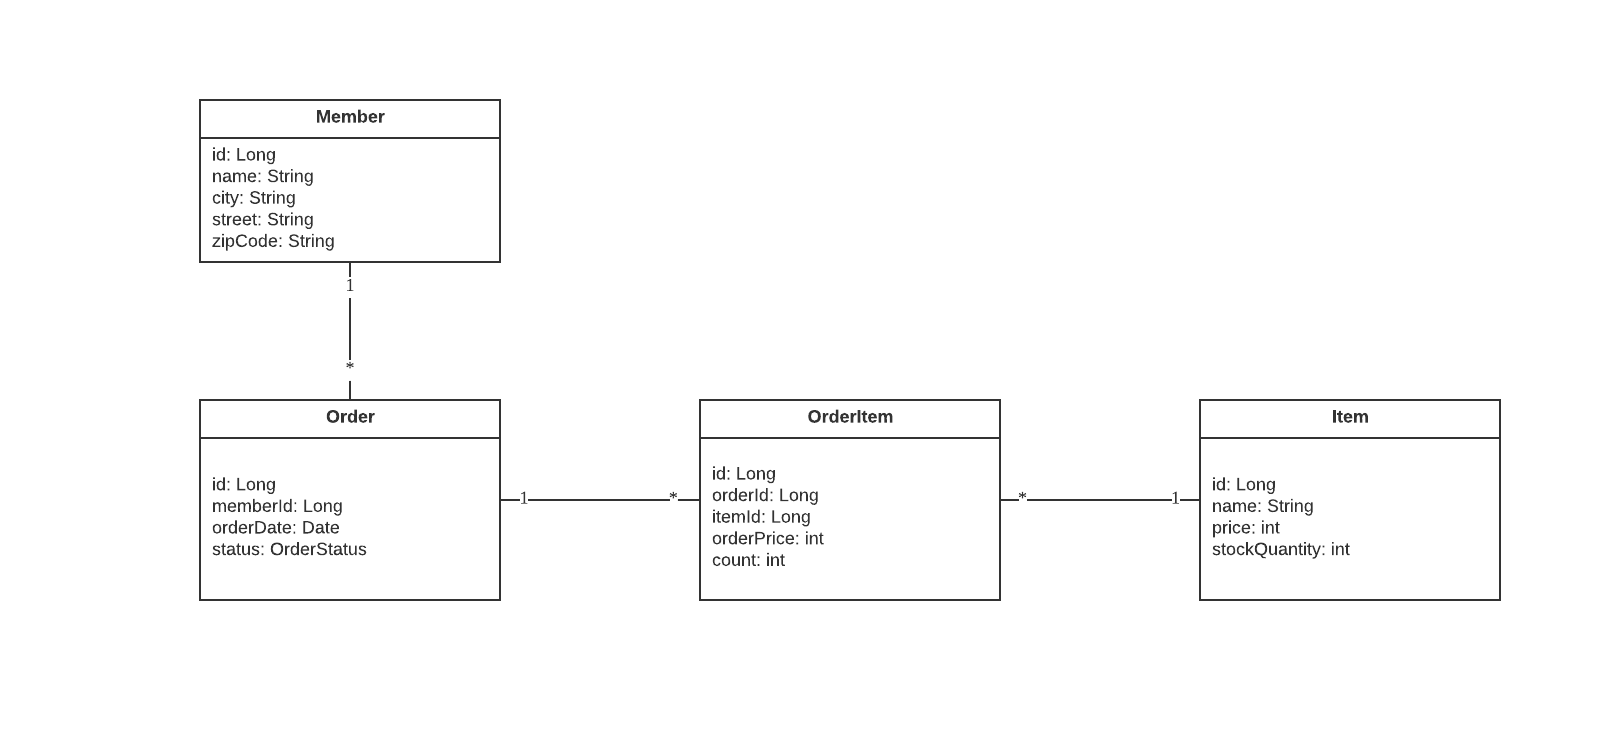
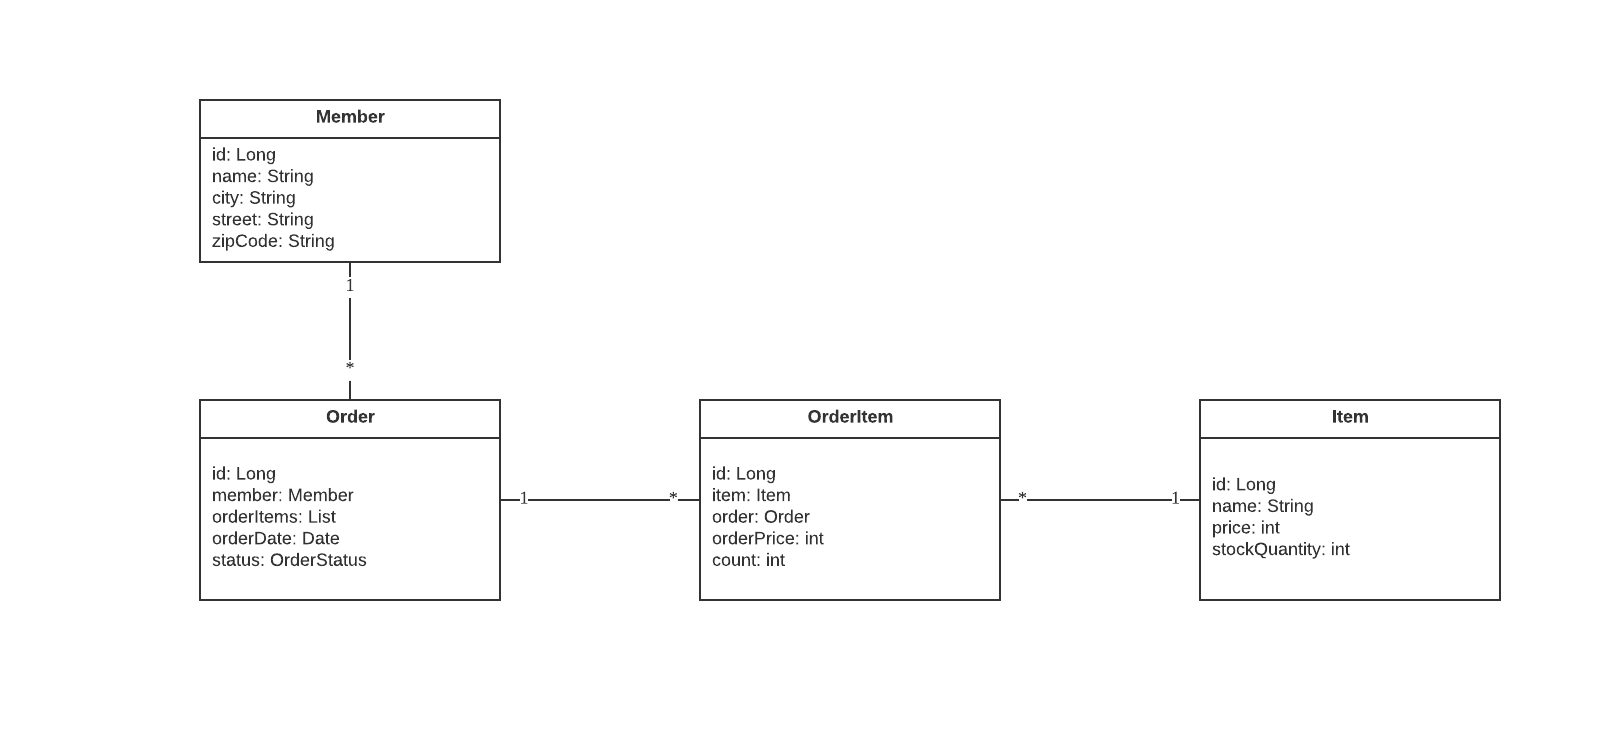
JPA 연관관계 매핑

Changed region(s): [[0.1239, 0.6166, 0.2478, 0.7708], [0.4337, 0.6475, 0.5266, 0.7091]]

diff --git a/jpashop/src/main/java/jpabook/jpashop/domain/Order.java b/jpashop/src/main/java/jpabook/jpashop/domain/Order.java
@@ -1,12 +1,17 @@
 package jpabook.jpashop.domain;
 
 import java.time.LocalDateTime;
+import java.util.ArrayList;
+import java.util.List;
 import javax.persistence.Column;
 import javax.persistence.Entity;
 import javax.persistence.EnumType;
 import javax.persistence.Enumerated;
 import javax.persistence.GeneratedValue;
 import javax.persistence.Id;
+import javax.persistence.JoinColumn;
+import javax.persistence.ManyToOne;
+import javax.persistence.OneToMany;
 import javax.persistence.Table;
 
 @Entity
@@ -17,12 +22,30 @@ public class Order {
     @GeneratedValue
     @Column(name = "order_id")
     private Long id;
-    @Column(name = "member_id")
-    private Long memberId;
+    @ManyToOne
+    @JoinColumn(name = "member_id")
+    private Member member;
+    @OneToMany(mappedBy = "order")
+    private List<OrderItem> orderItems = new ArrayList<>();
     @Column(name = "order_date")
     private LocalDateTime orderDate;
     @Enumerated(EnumType.STRING)
     private OrderStatus status;
+
+    public Order() {
+    }
+
+    public Order(Member member, LocalDateTime orderDate,
+            OrderStatus status) {
+        this.member = member;
+        this.orderDate = orderDate;
+        this.status = status;
+    }
+
+    public void addOrderItem(OrderItem orderItem) {
+        orderItem.setOrder(this);
+        orderItems.add(orderItem);
+    }
 
     public Long getId() {
         return id;
@@ -32,12 +55,20 @@ public class Order {
         this.id = id;
     }
 
-    public Long getMemberId() {
-        return memberId;
+    public Member getMember() {
+        return member;
     }
 
-    public void setMemberId(Long memberId) {
-        this.memberId = memberId;
+    public void setMember(Member member) {
+        this.member = member;
+    }
+
+    public List<OrderItem> getOrderItems() {
+        return orderItems;
+    }
+
+    public void setOrderItems(List<OrderItem> orderItems) {
+        this.orderItems = orderItems;
     }
 
     public LocalDateTime getOrderDate() {

diff --git a/jpashop/src/main/java/jpabook/jpashop/domain/OrderItem.java b/jpashop/src/main/java/jpabook/jpashop/domain/OrderItem.java
@@ -4,6 +4,8 @@ import javax.persistence.Column;
 import javax.persistence.Entity;
 import javax.persistence.GeneratedValue;
 import javax.persistence.Id;
+import javax.persistence.JoinColumn;
+import javax.persistence.ManyToOne;
 import javax.persistence.Table;
 
 @Entity
@@ -14,12 +16,24 @@ public class OrderItem {
     @GeneratedValue
     @Column(name = "order_item_id")
     private Long id;
-    @Column(name = "order_id")
-    private Long orderId;
-    @Column(name = "item_id")
-    private Long itemId;
+    @ManyToOne
+    @JoinColumn(name = "item_id")
+    private Item item;
+    @ManyToOne
+    @JoinColumn(name = "order_id")
+    private Order order;
+    @Column(name = "order_price")
     private int orderPrice;
     private int count;
+
+    public OrderItem() {
+    }
+
+    public OrderItem(Item item, int orderPrice, int count) {
+        this.item = item;
+        this.orderPrice = orderPrice;
+        this.count = count;
+    }
 
     public Long getId() {
         return id;
@@ -29,20 +43,20 @@ public class OrderItem {
         this.id = id;
     }
 
-    public Long getOrderId() {
-        return orderId;
+    public Item getItem() {
+        return item;
     }
 
-    public void setOrderId(Long orderId) {
-        this.orderId = orderId;
+    public void setItem(Item item) {
+        this.item = item;
     }
 
-    public Long getItemId() {
-        return itemId;
+    public Order getOrder() {
+        return order;
     }
 
-    public void setItemId(Long itemId) {
-        this.itemId = itemId;
+    public void setOrder(Order order) {
+        this.order = order;
     }
 
     public int getOrderPrice() {

diff --git a/jpashop/src/main/java/jpabook/jpashop/JpaMain.java b/jpashop/src/main/java/jpabook/jpashop/JpaMain.java
@@ -1,9 +1,15 @@
 package jpabook.jpashop;
 
+import java.time.LocalDateTime;
 import javax.persistence.EntityManager;
 import javax.persistence.EntityManagerFactory;
 import javax.persistence.EntityTransaction;
 import javax.persistence.Persistence;
+import jpabook.jpashop.domain.Item;
+import jpabook.jpashop.domain.Member;
+import jpabook.jpashop.domain.Order;
+import jpabook.jpashop.domain.OrderItem;
+import jpabook.jpashop.domain.OrderStatus;
 
 public class JpaMain {
 
@@ -16,7 +22,23 @@ public class JpaMain {
         EntityTransaction tx = em.getTransaction();
         tx.begin();
         try {
-            
+            // 아이템 생성
+            Item item = new Item("사과", 1000, 10);
+            em.persist(item);
+
+            // 회원 등록
+            Member member = new Member("Yuwonwoo", "Gunpo", "328 Beonyeong-ro", "15870");
+            em.persist(member);
+
+            // 주문
+            Order order = new Order(member, LocalDateTime.now(), OrderStatus.ORDER);
+            em.persist(order);
+
+            // 주문 목록 담기
+            OrderItem orderItem = new OrderItem(item, item.getPrice(), 1);
+            order.addOrderItem(orderItem);
+            em.persist(orderItem);
+
             tx.commit();
         } catch (Exception exception) {
             tx.rollback();

diff --git a/jpashop/src/main/java/jpabook/jpashop/domain/Member.java b/jpashop/src/main/java/jpabook/jpashop/domain/Member.java
@@ -1,9 +1,12 @@
 package jpabook.jpashop.domain;
 
+import java.util.ArrayList;
+import java.util.List;
 import javax.persistence.Column;
 import javax.persistence.Entity;
 import javax.persistence.GeneratedValue;
 import javax.persistence.Id;
+import javax.persistence.OneToMany;
 
 @Entity
 public class Member {
@@ -16,6 +19,19 @@ public class Member {
     private String street;
     @Column(name = "zip_code")
     private String zipCode;
+//    @OneToMany(mappedBy = "member")
+//    private List<Order> orders = new ArrayList<>();
+
+
+    public Member() {
+    }
+
+    public Member(String name, String city, String street, String zipCode) {
+        this.name = name;
+        this.city = city;
+        this.street = street;
+        this.zipCode = zipCode;
+    }
 
     public Long getId() {
         return id;

diff --git a/jpashop/src/main/java/jpabook/jpashop/domain/Item.java b/jpashop/src/main/java/jpabook/jpashop/domain/Item.java
@@ -1,5 +1,6 @@
 package jpabook.jpashop.domain;
 
+import javax.persistence.Column;
 import javax.persistence.Entity;
 import javax.persistence.GeneratedValue;
 import javax.persistence.Id;
@@ -8,10 +9,20 @@ import javax.persistence.Id;
 public class Item {
     @Id
     @GeneratedValue
+    @Column(name = "item_id")
     private Long id;
     private String name;
     private int price;
     private int stockQuantity;
+
+    public Item() {
+    }
+
+    public Item(String name, int price, int stockQuantity) {
+        this.name = name;
+        this.price = price;
+        this.stockQuantity = stockQuantity;
+    }
 
     public Long getId() {
         return id;
